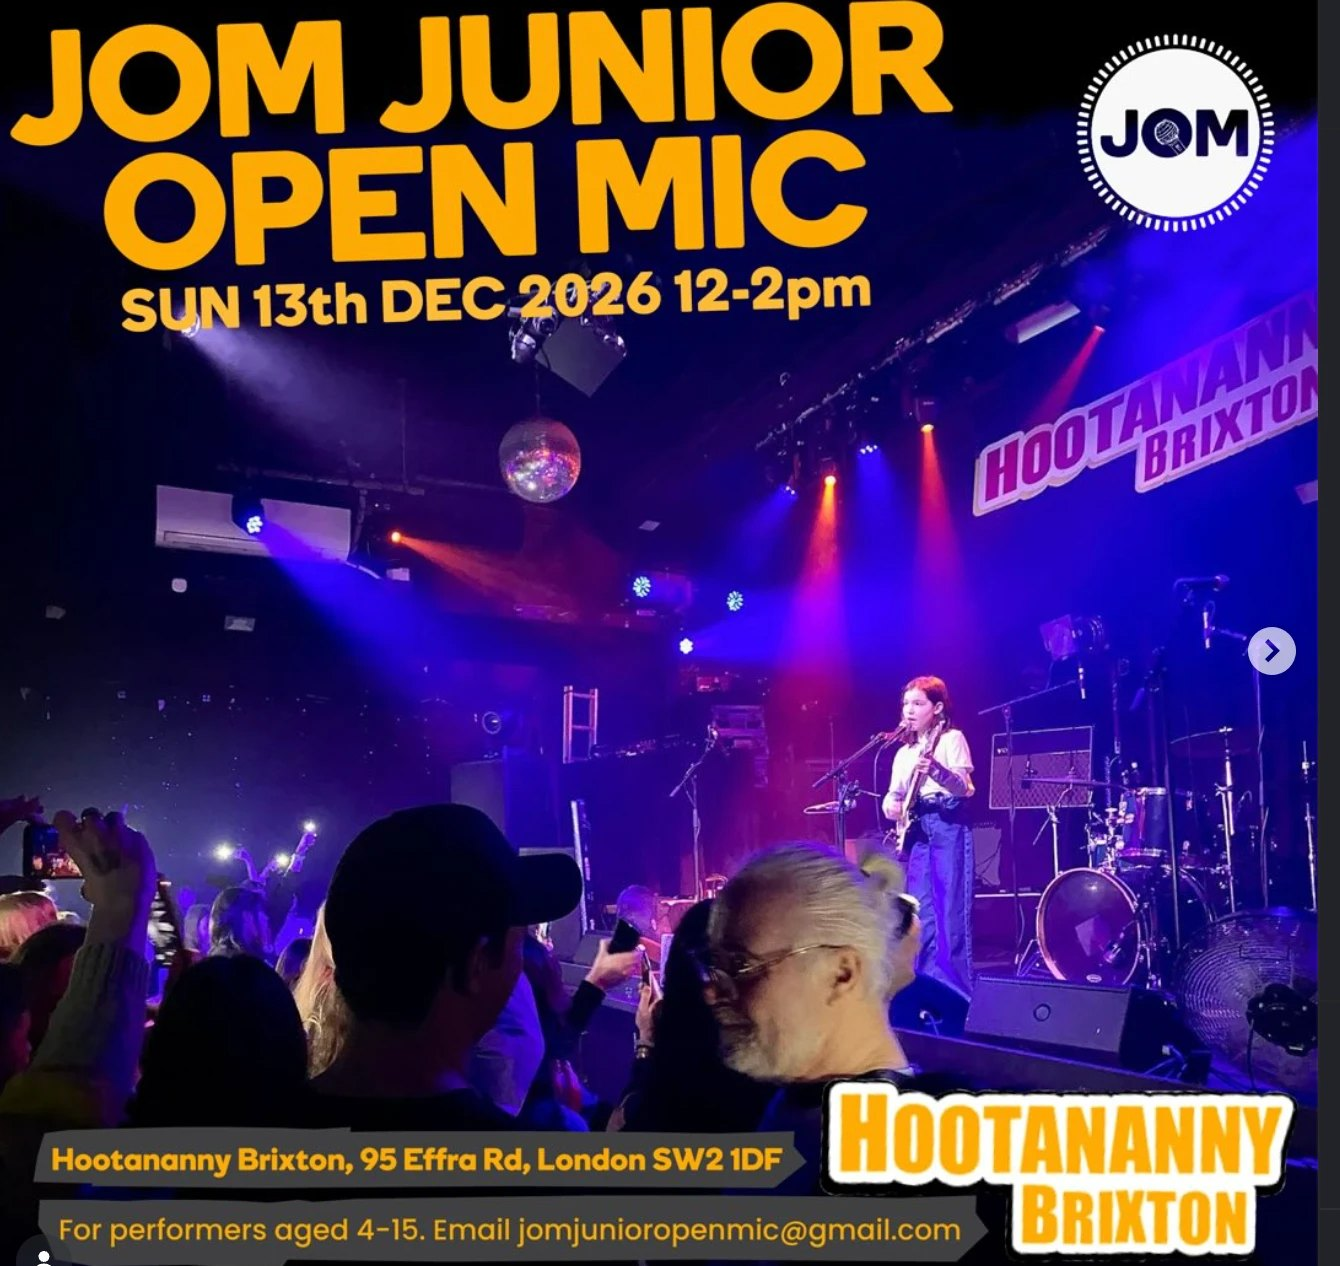
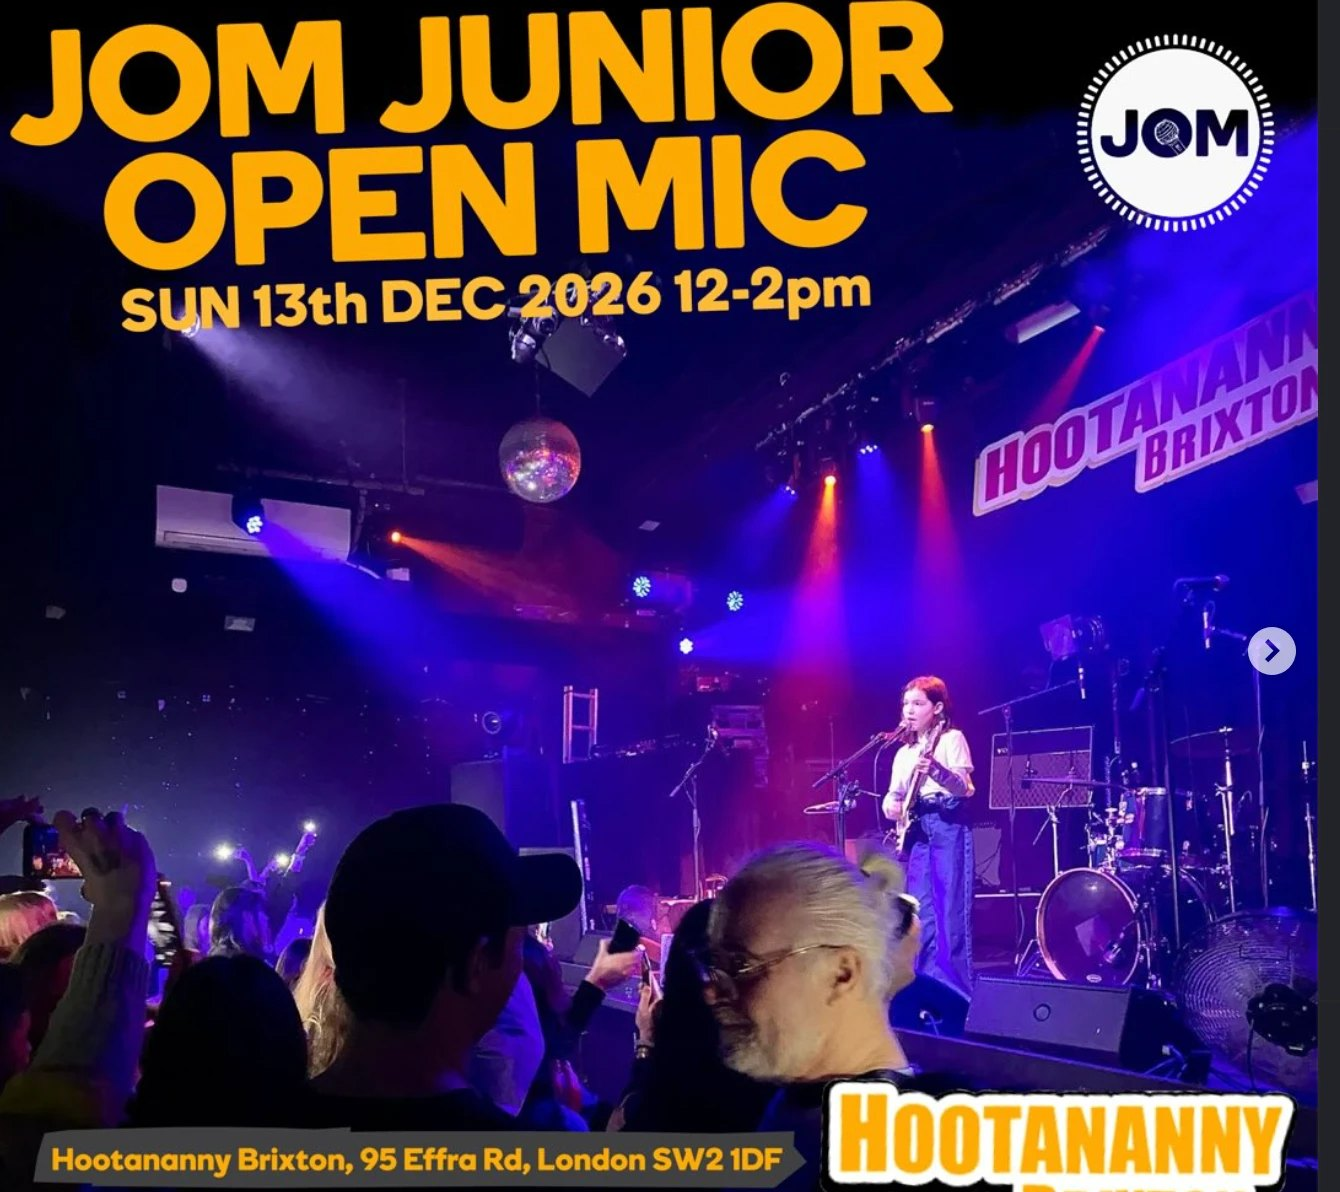
JOM hub: no "to play" email (every slot is full), JOM plays four venues, session times not "doors" (#60)
Vivian, 15 Nov:
- The 13 December slots are all full and JOM's organiser had ~300
  requests per session, so the hub no longer asks anyone to email JOM to
  play. The address is gone from the text, and the line with it is cropped
  off both December posters. The dates stay, for fans: "Every performing
  slot is taken: come and watch".
- "JOM's open mics happen at Hootananny Brixton as well as TAM" was wrong:
  JOM runs open mics at four venues, TAM among them.
- The hero showed "Doors 12:00" for an afternoon session; it now shows the
  session's times (12:00 to 19:30).

Claude-Session: https://claude.ai/code/session_01SrEGHLwjBDCoKDv9HGnCzp

diff --git a/src/views/jom.js b/src/views/jom.js
@@ -53,7 +53,7 @@ function hub(ctx, req, jom) {
   const top = acts.filter((a) => a.pledges).sort((x, y) => y.pledges - x.pledges).slice(0, 6);
   const groups = Object.entries(J.groups).map(([k, v]) => [v, acts.filter((a) => a.group === k)]).filter(([, l]) => l.length);
   const nextCard = next
-    ? html`<div class="jm-next"><span class="label">Next JOM session at TAM</span><b>${next.title}</b><span>${when(next)} · Doors ${next.doors}</span>
+    ? html`<div class="jm-next"><span class="label">Next JOM session at TAM</span><b>${next.title}</b><span>${when(next)} · ${next.doors} to ${next.ends}</span>
         <a class="btn hot" href="${ctx.cfg.siteUrl}/events/${next.slug}#book">Get free tickets</a></div>`
     : later.length ? html`<div class="jm-next"><span class="label">Next JOM dates</span><b>${later.map((u) => u.title).join(' and ')}</b><span>${dayOf(later[0].date)} · ${later[0].venue.split(',')[0]}</span>
         <a class="btn hot" href="#next-dates">See the dates</a></div>`
@@ -88,10 +88,10 @@ function hub(ctx, req, jom) {
       ${J.sessions.map((s) => html`<p class="small">Played at TAM: <a href="${ctx.cfg.siteUrl}/events/${s.slug}">${s.title}, ${longDate(s.date)}</a></p>`)}</div>
       <div class="formbox"><h2>Parents and guardians</h2><p>Every act has a page that stays, so they can share it for years. If you’re a parent or guardian of someone in the act, open their page and tap <b>Claim this page</b>. We check every claim, then you can add photos, a short bio and links to their music.</p>
       <p class="small muted">We check every change before it goes on the page. We never show ages, schools or where anyone lives, and you can ask us to take a page down at any time. <a href="${L(req, '/sign-in')}">Already claimed? Sign in</a></p></div></div></section>
-    ${later.length ? html`<section class="section" id="next-dates"><div class="wrap"><h2 class="chrome">Next JOM dates</h2>
+    ${later.length ? html`<section class="section" id="next-dates"><div class="wrap"><h2 class="chrome">Come and see JOM next</h2>
       <div class="jm-dates">${later.map((u) => html`<article class="jm-date">${u.poster ? html`<img src="${u.poster}" alt="${u.title}: ${dayOf(u.date)}, ${u.time}, ${u.venue}" loading="lazy" width="640" height="640">` : ''}
-        <div><b>${u.title}</b><span>${longDate(u.date)} · ${u.time}</span><span>${u.venue}</span><span>${u.who}. To play, email <a href="mailto:${u.contact}">${u.contact}</a></span></div></article>`)}</div>
-      <p class="small muted">JOM’s open mics happen at Hootananny Brixton as well as TAM. Every JOM night at TAM is on <a href="${ctx.cfg.siteUrl}/whats-on">TAM’s listings</a>.</p></div></section>` : ''}`,
+        <div><b>${u.title}</b><span>${longDate(u.date)} · ${u.time}</span><span>${u.venue}</span><span>${u.who}</span>${u.note ? html`<span class="jm-full">${u.note}</span>` : ''}</div></article>`)}</div>
+      ${J.venues ? html`<p class="small muted">${J.venues} Every JOM night at TAM is on <a href="${ctx.cfg.siteUrl}/whats-on">TAM’s listings</a>.</p>` : ''}</div></section>` : ''}`,
   });
 }
 

diff --git a/test/jom.test.js b/test/jom.test.js
@@ -129,8 +129,10 @@ test('JOM hub: a carousel of banners and acts, the next JOM dates, and applicati
   assert.match(hub, /<script type="module" src="\/js\/carousel\.js">/);
   // the next JOM dates, at Hootananny Brixton
   assert.match(hub, /id="next-dates"[\s\S]*JOM Junior Open Mic[\s\S]*12pm to 2pm[\s\S]*Hootananny Brixton, 95 Effra Rd/);
-  assert.match(hub, /JOM Youth Open Mic[\s\S]*2pm to 7:30pm[\s\S]*aged 12 to 18/);
-  assert.match(hub, /mailto:jomjunioropenmic@gmail\.com/);
+  assert.match(hub, /JOM Youth Open Mic[\s\S]*2pm to 7:30pm[\s\S]*Ages 12 to 18[\s\S]*come and watch/);
+  // the slots are full: no address for players to email (Vivian, 15 Nov), and JOM plays four venues
+  assert.doesNotMatch(hub, /jomjunioropenmic|To play, email/);
+  assert.match(hub, /four venues around London, TAM among them/);
   assert.match(hub, /Next JOM dates<\/span><b>JOM Junior Open Mic and JOM Youth Open Mic<\/b>/); // the hero points there once TAM's session has passed
   // the call to play The Best Christmas Ever
   assert.match(hub, /id="christmas"[\s\S]*date to be announced[\s\S]*Play The Best Christmas Ever 2026[\s\S]*id="jm-xmas"/);

diff --git a/public/css/site.css b/public/css/site.css
@@ -1549,3 +1549,4 @@ body.xm-playing .xm-hero { box-shadow: inset 0 -2px 0 rgba(255,215,120,calc(var(
 .jm-date div { padding: 14px 16px; display: grid; gap: 4px; } .jm-date b { font-size: 20px; } .jm-date span { color: var(--ink-dim); font-size: 15px; }
 .jm-xmas { background: radial-gradient(120% 140% at 100% 0, rgba(255, 59, 78, .25), transparent 55%), var(--panel); border: 1px solid #7a2a33; border-radius: 24px; padding: clamp(20px, 4vw, 40px); }
 .jm-xmas form { display: grid; gap: 12px; margin-top: 14px; }
+.jm-date .jm-full { color: var(--gold); }
